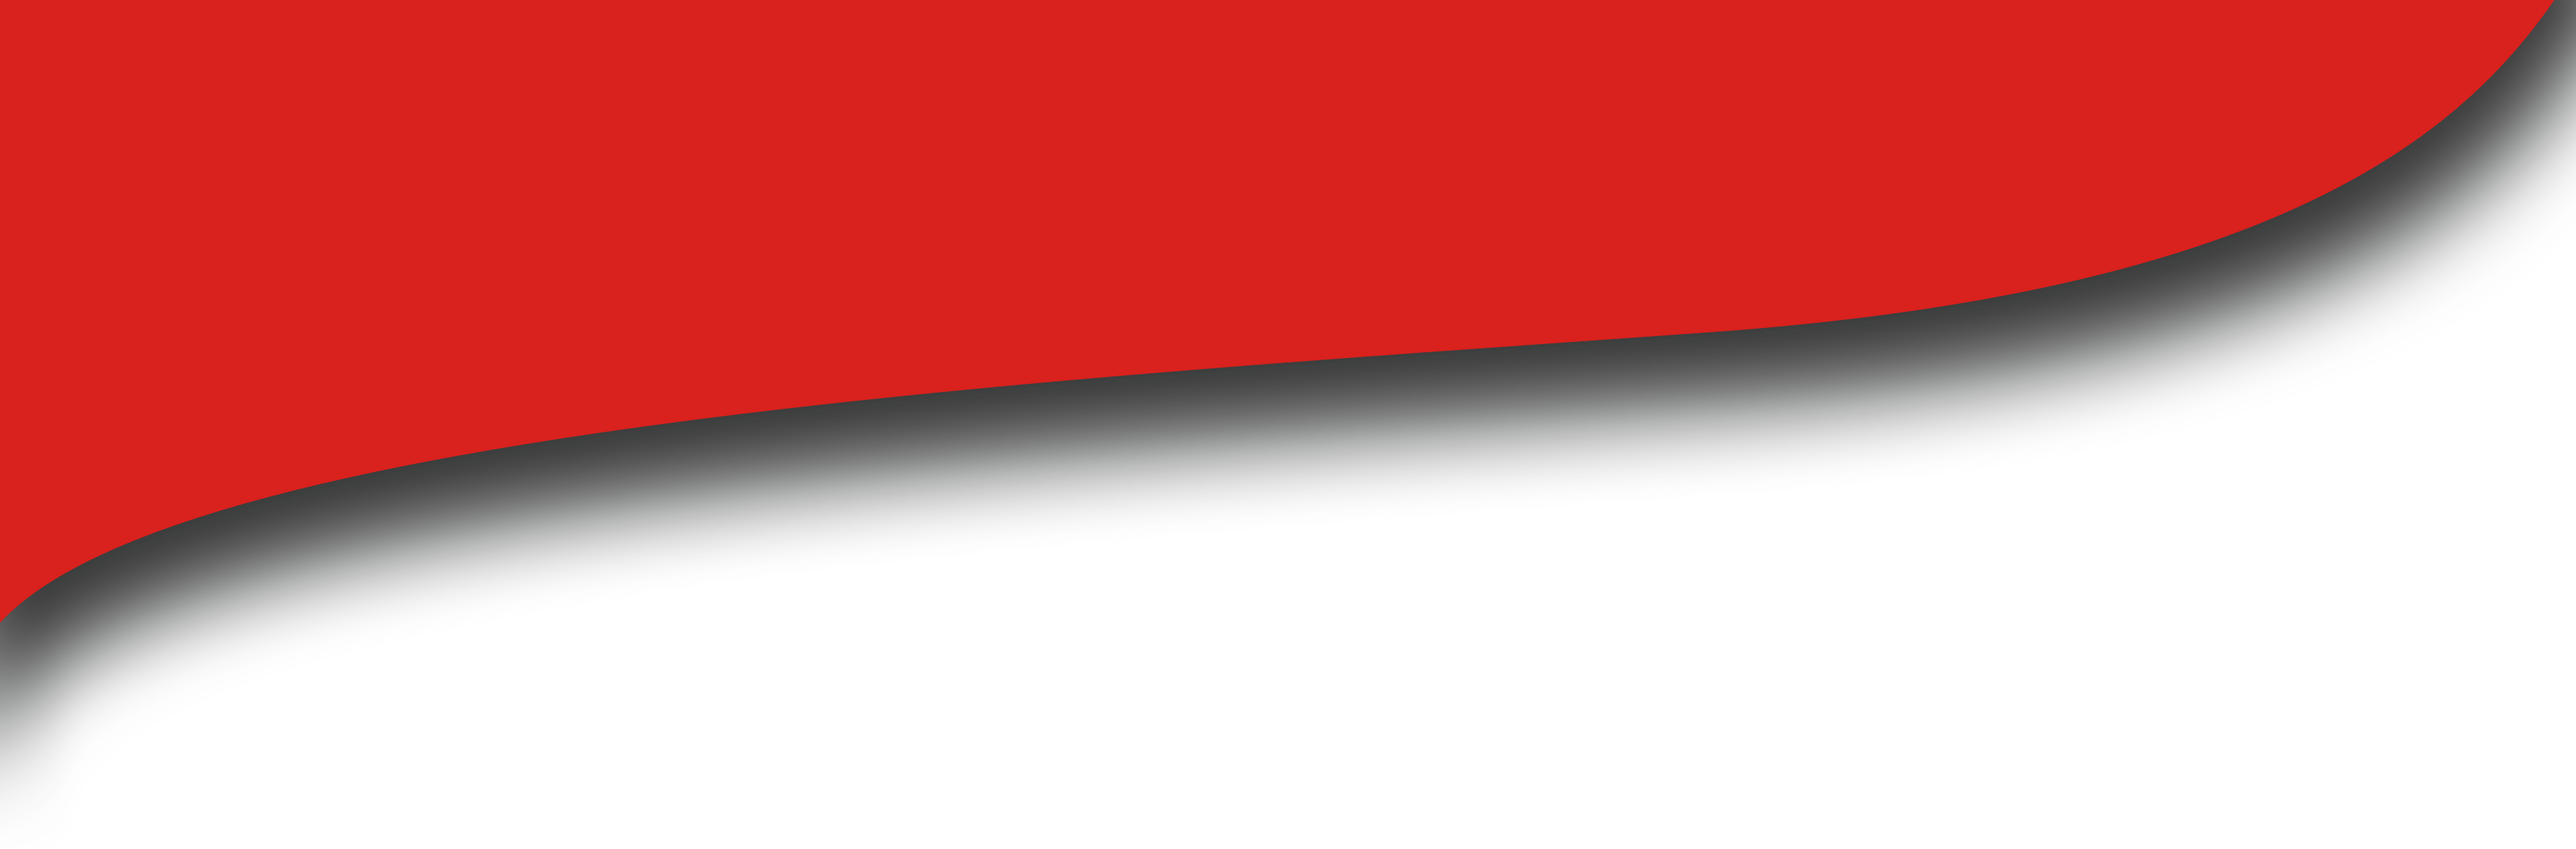
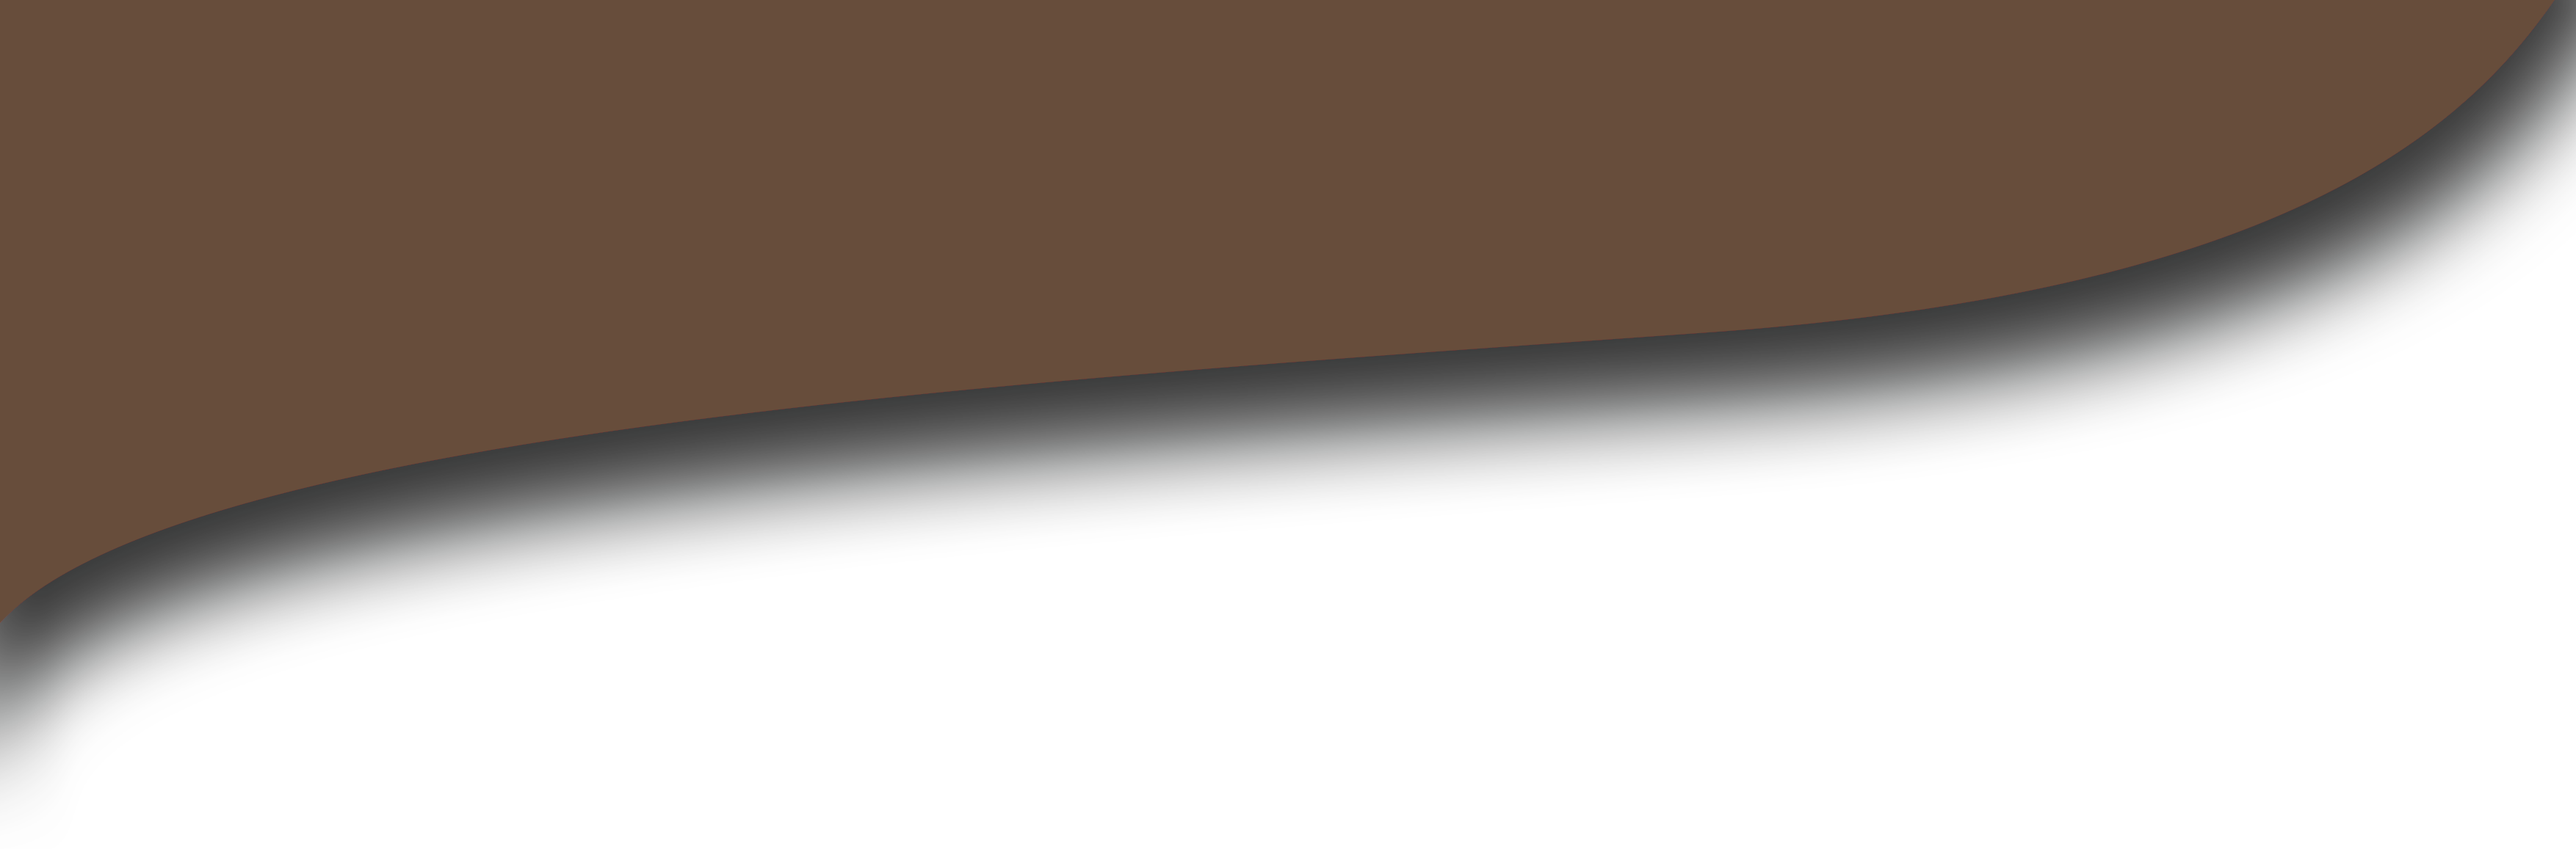
Maj du graphisme de la lettre

diff --git a/resources/views/dashboard/newcomers/letter.blade.php b/resources/views/dashboard/newcomers/letter.blade.php
@@ -35,7 +35,7 @@
 				width: 29.7cm;
 				height: 21cm;
 
-				background-image: url("{{ asset('/img/letter/bg.jpg') }}");
+				background-image: url("{{ asset('/img/letter/bg.png') }}");
 				background-repeat: no-repeat;
 				background-size: 100% 100%;
 				position: relative;
@@ -181,7 +181,7 @@
 			}
 
 			.blocs .acces .info {
-				background-color: rgba(143, 39, 203, 0.8);
+				background-color: #33691E;
 				font-size: 0.85em;
 				padding: 2.54mm;
 			}
